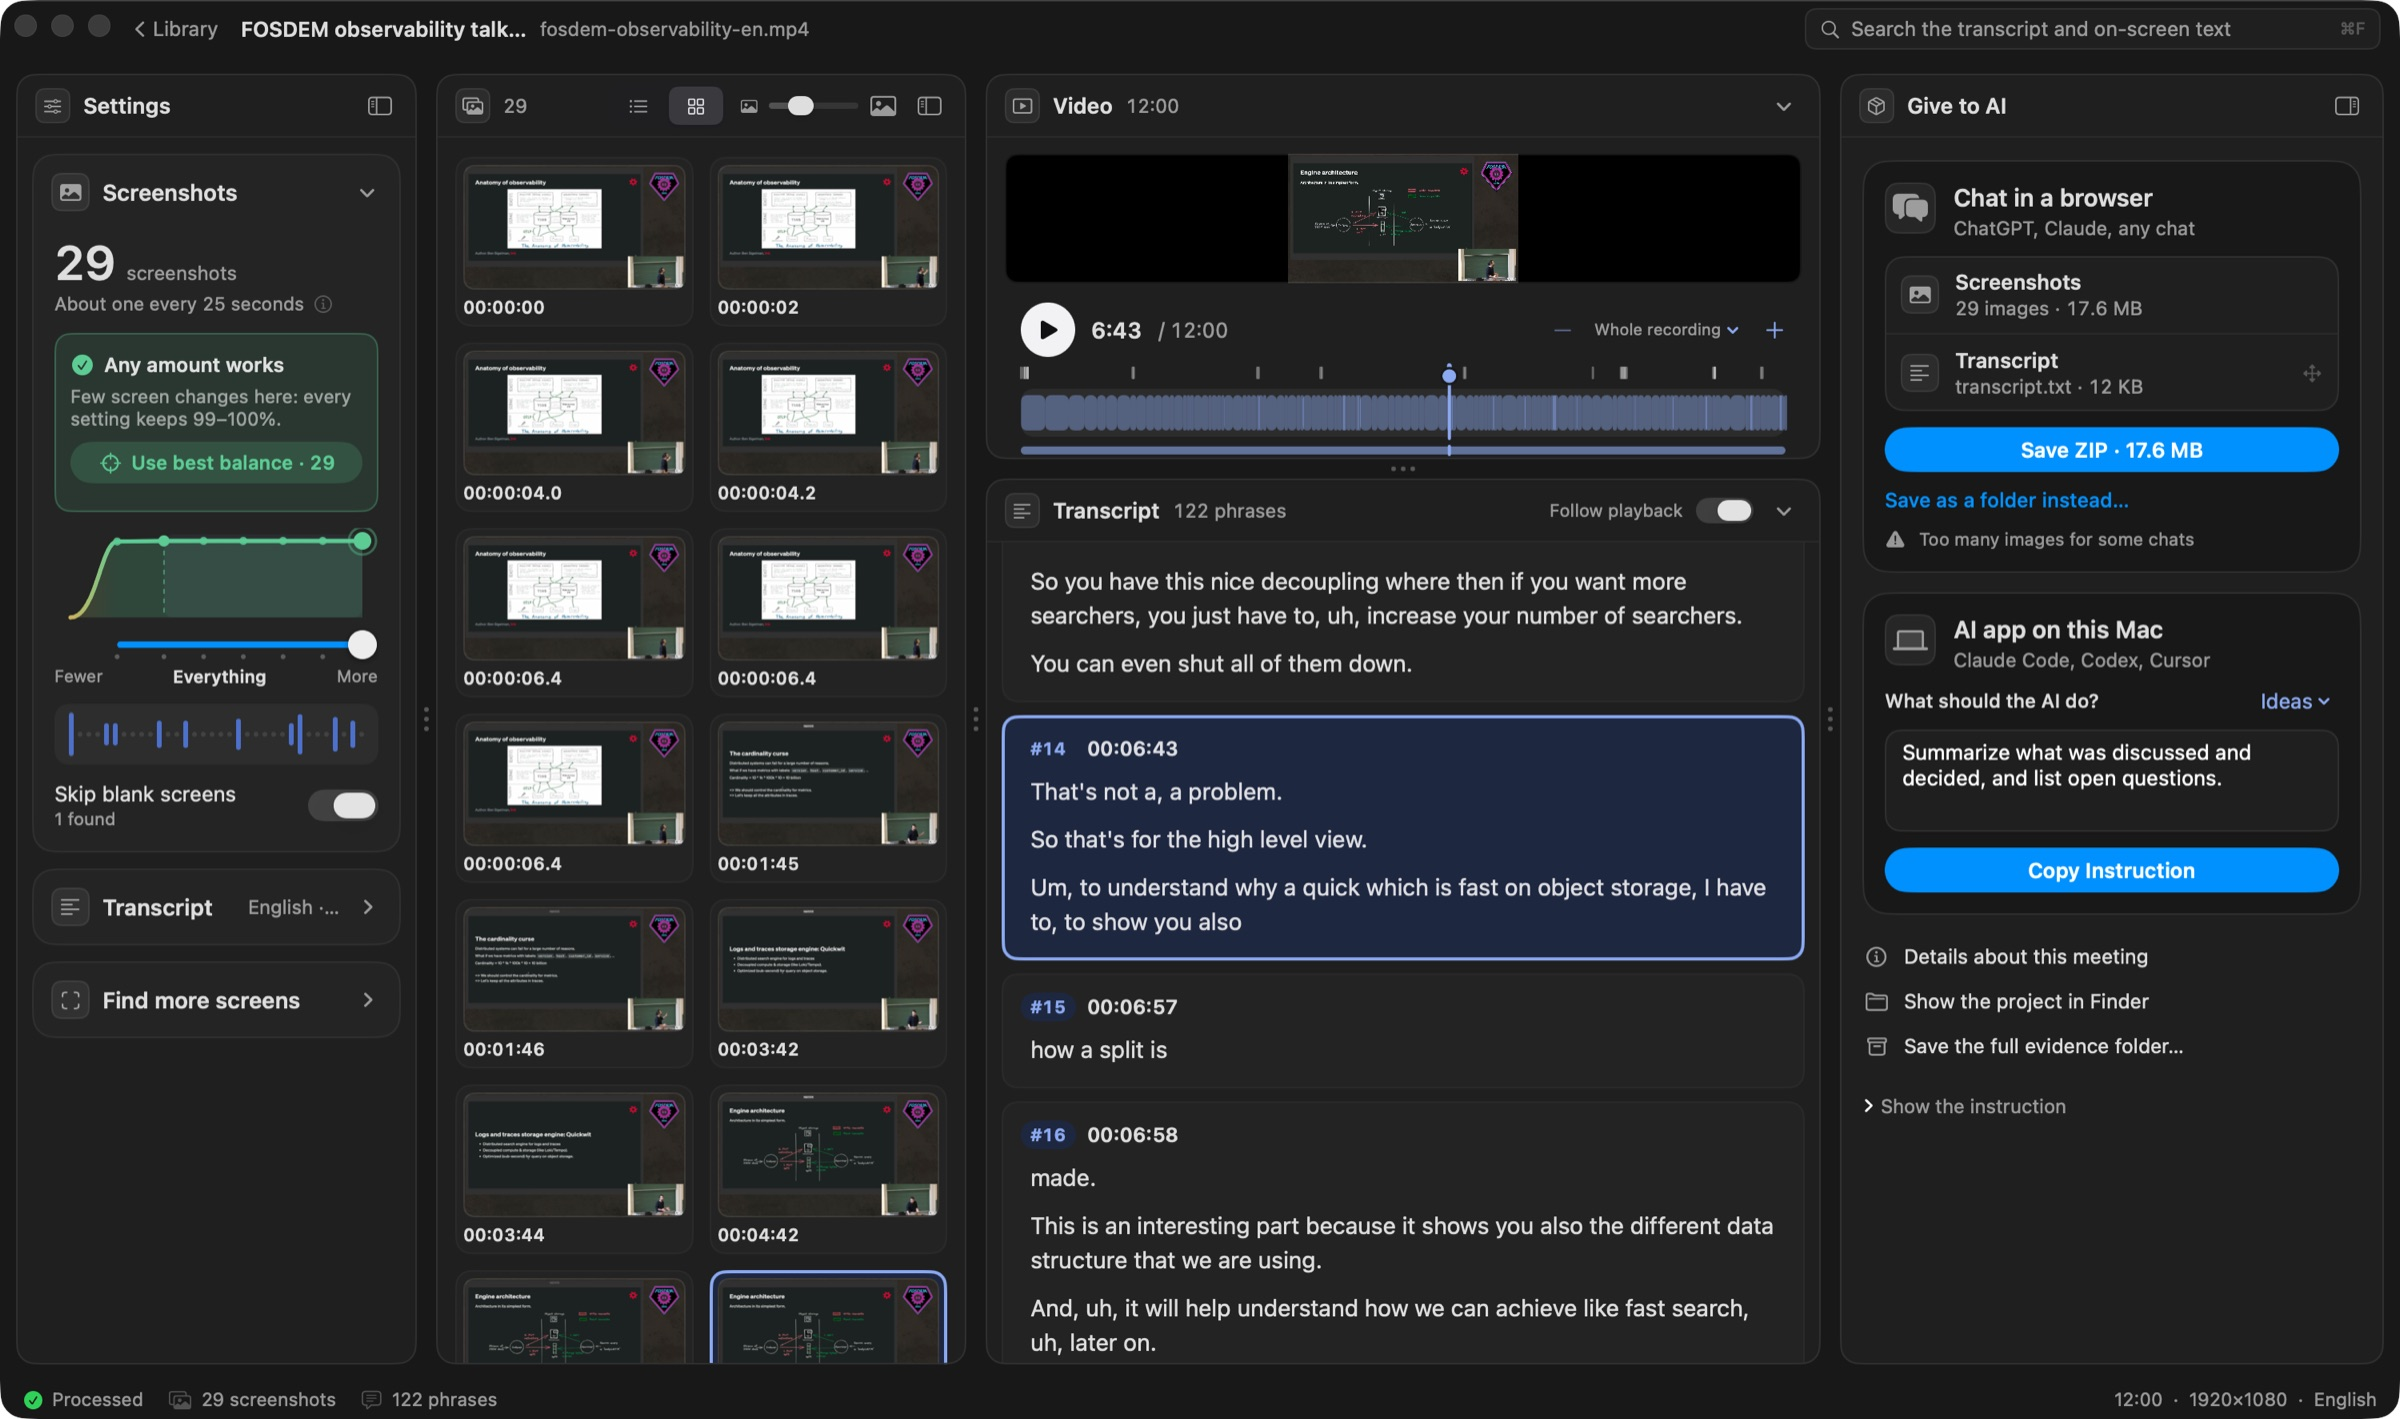
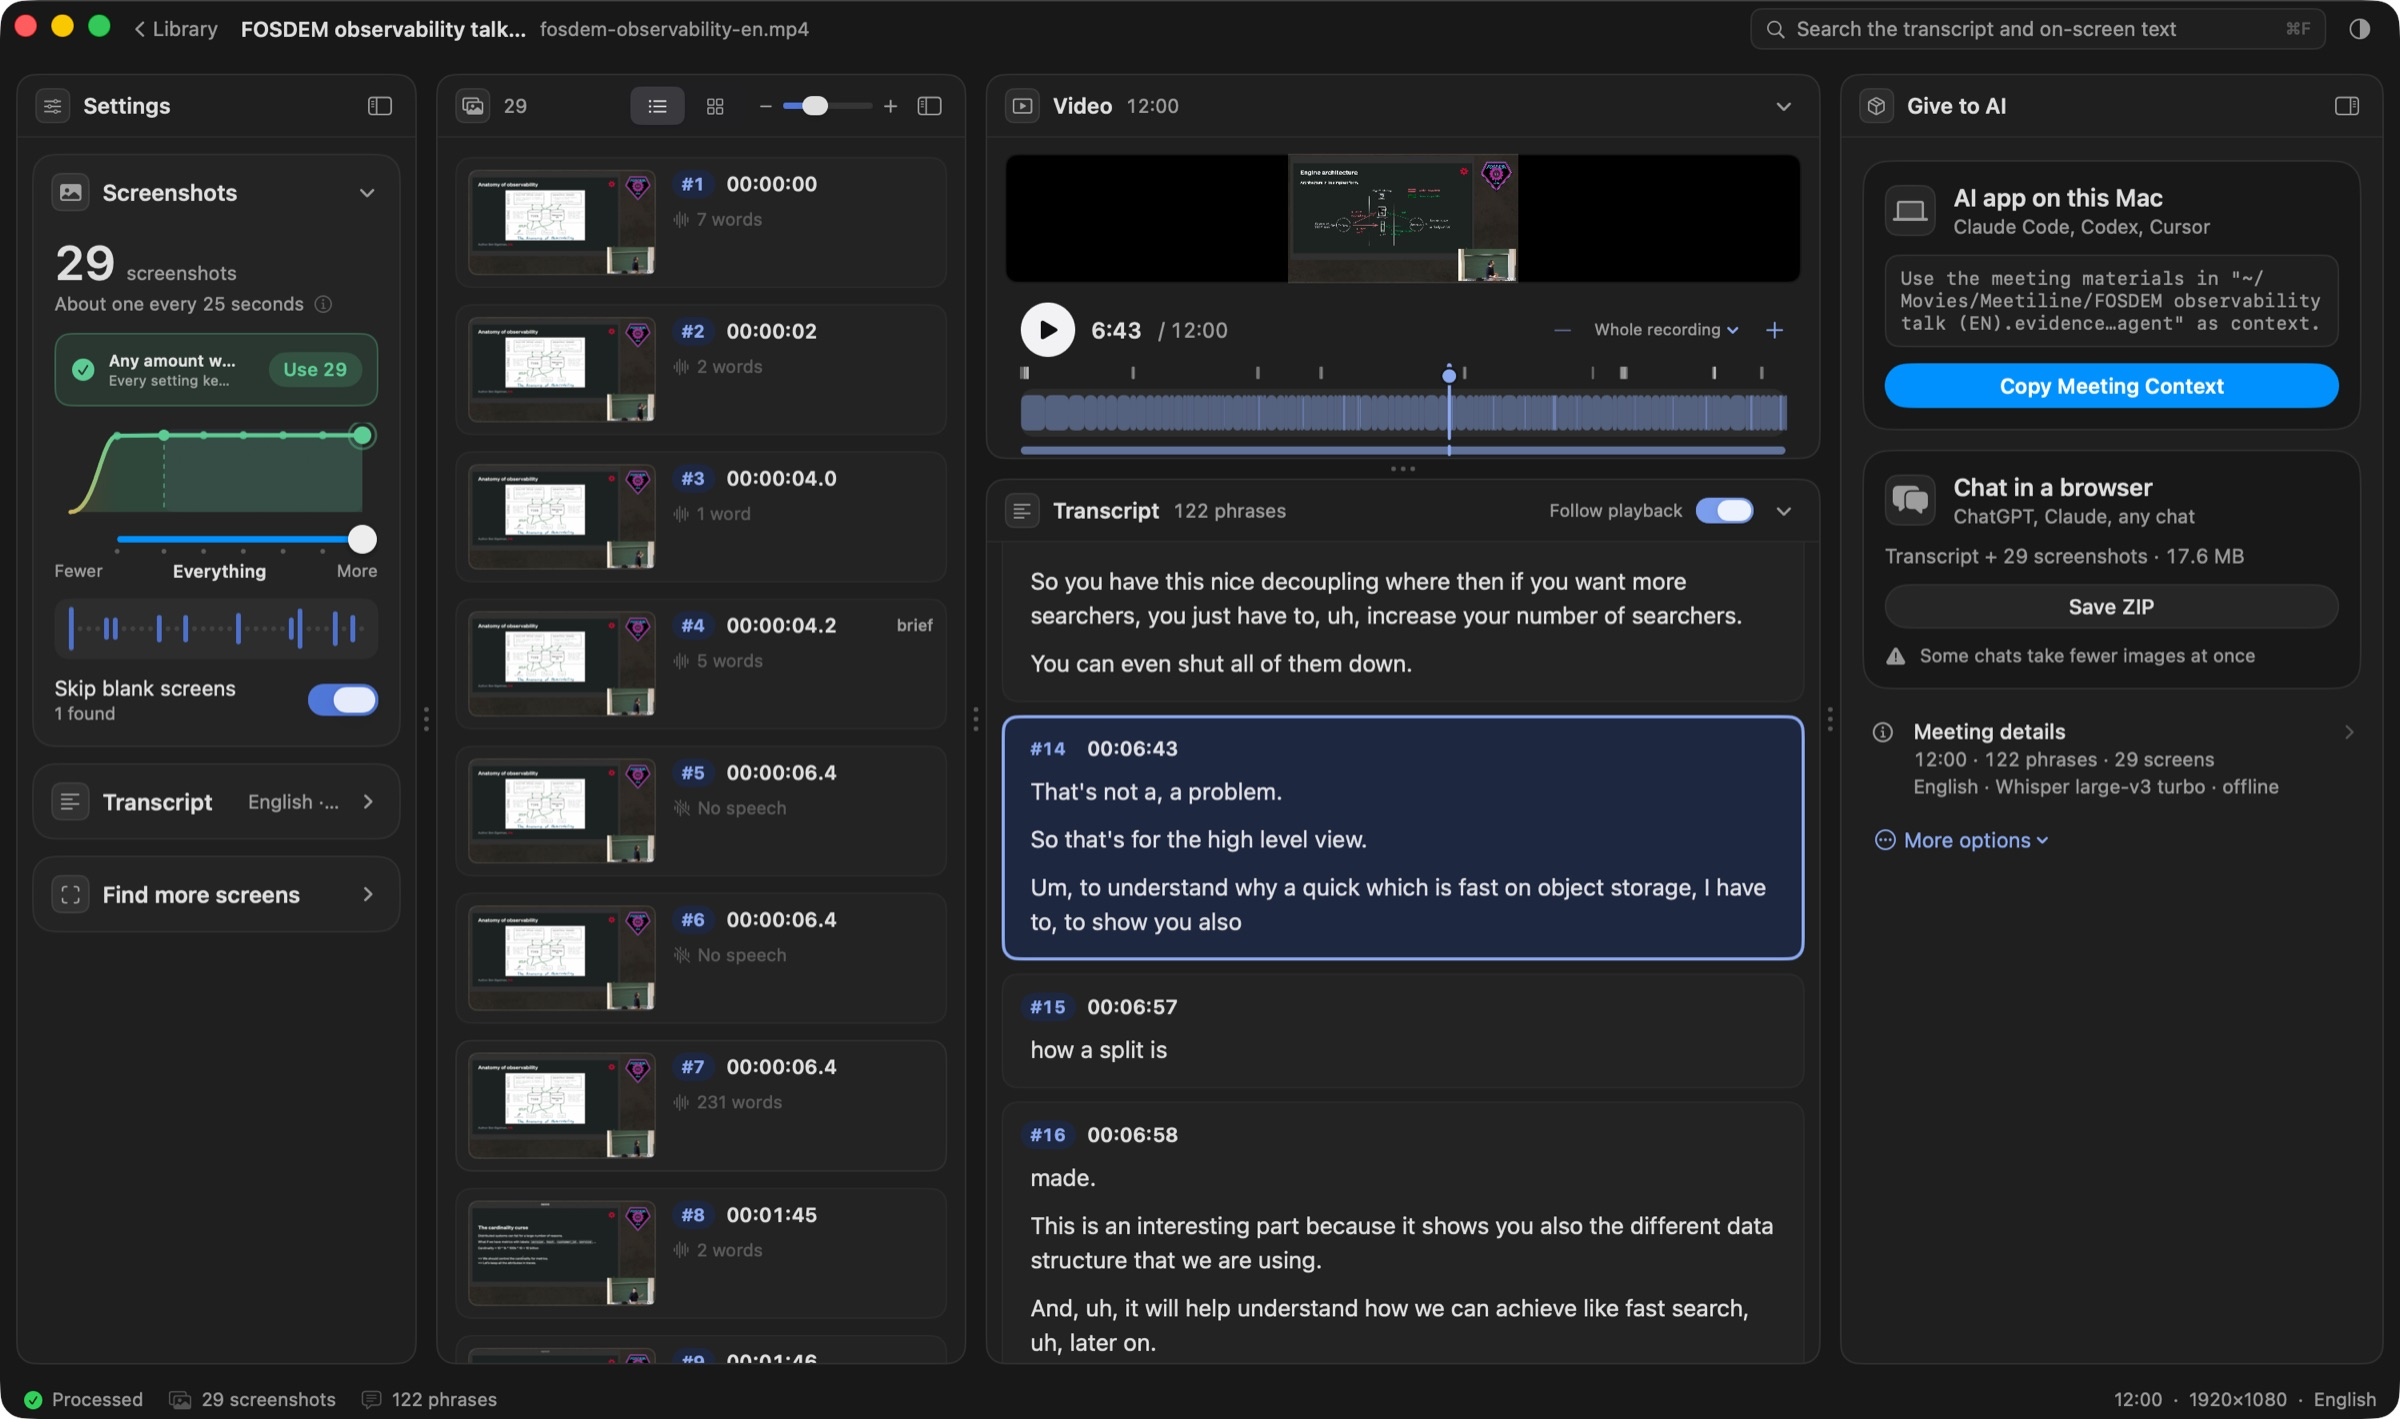
Fresh illustrations and app screenshot, agent hand-over wording, version 0.2.0

diff --git a/index.html b/index.html
@@ -65,7 +65,7 @@
   h2 { font-size: clamp(26px, 4vw, 34px); letter-spacing: -0.02em; line-height: 1.15; margin: 0 0 26px; text-align: center; text-wrap: balance; }
   .steps { display: grid; grid-template-columns: repeat(3, 1fr); gap: 16px; }
   .card { background: var(--surface); border: 1px solid var(--border); border-radius: 20px; padding: 18px; }
-  .card .art { aspect-ratio: 960 / 680; background: #1f1f23; border-radius: 12px; margin-bottom: 14px; overflow: hidden; display: grid; place-items: center; }
+  .card .art { aspect-ratio: 16 / 11; background: #1f1f23; padding: 10px; border-radius: 12px; margin-bottom: 14px; overflow: hidden; display: grid; place-items: center; }
   .card .art img, .card .art svg { display: block; width: 100%; height: auto; max-height: 100%; object-fit: contain; }
   .card h3 { margin: 0 0 4px; font-size: 17px; display: flex; gap: 10px; align-items: center; }
   .card h3 i { font-style: normal; flex: none; width: 24px; height: 24px; border-radius: 50%; background: var(--blue); color: #fff; display: grid; place-items: center; font-size: 13px; font-weight: 700; }
@@ -159,7 +159,7 @@
       <span class="badge">Free</span>
       <span class="badge">macOS 14 or later</span>
       <span class="badge">Apple silicon (M1 and newer)</span>
-      <span class="badge" id="version">Version 0.1.2 · about 6 MB</span>
+      <span class="badge" id="version">Version 0.2.0 · about 6 MB</span>
     </div>
     <p class="hint">First time on a Mac? <a href="#install">Here is how to open it.</a></p>
     <figure class="shot">
@@ -172,9 +172,9 @@
     <p class="eyebrow">How it works</p>
     <h2>Three steps</h2>
     <div class="steps">
-      <div class="card"><div class="art"><img src="tour-1.png" alt="" width="720" height="510" loading="lazy"></div><h3><i>1</i>Drop a recording</h3><p>From Teams, Zoom, Meet or Loom. MP4 or MOV.</p></div>
-      <div class="card"><div class="art"><img src="tour-2.png" alt="" width="720" height="510" loading="lazy"></div><h3><i>2</i>Check the result</h3><p>Screenshots with times, and what was said under each.</p></div>
-      <div class="card"><div class="art"><img src="tour-3.png" alt="A friendly robot picking up a box of screenshots and a transcript" width="720" height="510" loading="lazy"></div><h3><i>3</i>Give it to your AI</h3><p>One ZIP for a chat, or one instruction for an AI app.</p></div>
+      <div class="card"><div class="art"><img src="step-meeting.png" alt="A meeting recording" width="640" height="640" loading="lazy"></div><h3><i>1</i>Drop a recording</h3><p>From Teams, Zoom, Meet or Loom. MP4 or MOV.</p></div>
+      <div class="card"><div class="art"><img src="step-data.png" alt="Screenshots with their times and the transcript" width="640" height="640" loading="lazy"></div><h3><i>2</i>Check the result</h3><p>Screenshots with times, and what was said under each.</p></div>
+      <div class="card"><div class="art"><img src="step-robot.png" alt="A friendly robot picking up a box of screenshots and a transcript" width="640" height="640" loading="lazy"></div><h3><i>3</i>Give it to your AI</h3><p>One ZIP for a chat, or the meeting context for an AI agent on your Mac.</p></div>
     </div>
   </section>
 
@@ -242,7 +242,7 @@
 
 <footer>
   <div class="wrap">
-    <span id="foot-version">Meetiline 0.1.2 · Made by Iskandar Gubaydullin</span>
+    <span id="foot-version">Meetiline 0.2.0 · Made by Iskandar Gubaydullin</span>
     <span><a href="licences.txt">Open-source licences</a> · <a href="https://iskan.kz">iskan.kz</a></span>
   </div>
 </footer>
